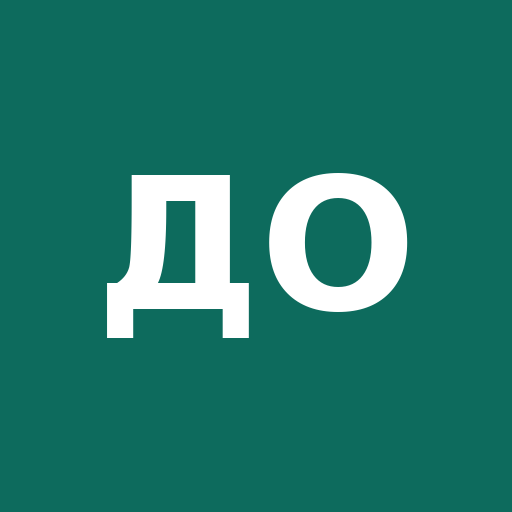
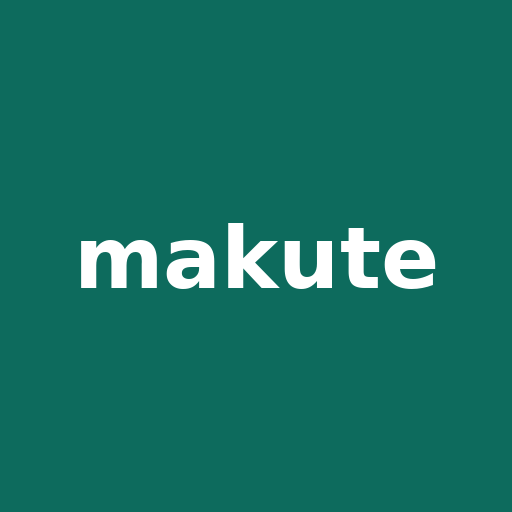
Add files via upload

Changed region(s): [[0.1562, 0.3125, 0.875, 0.6875]]

diff --git a/index.html b/index.html
@@ -9,7 +9,7 @@
 <link rel="icon" href="icon-192.png">
 <link rel="apple-touch-icon" href="icon-192.png">
 <meta name="apple-mobile-web-app-capable" content="yes">
-<meta name="apple-mobile-web-app-title" content="Документооборот">
+<meta name="apple-mobile-web-app-title" content="makute">
 <link rel="preconnect" href="https://fonts.googleapis.com">
 <link rel="preconnect" href="https://fonts.gstatic.com" crossorigin>
 <link href="https://fonts.googleapis.com/css2?family=Onest:wght@400;500;600;700&display=swap" rel="stylesheet">
@@ -75,8 +75,8 @@ button{cursor:pointer}
 
 .app{flex:1;display:flex;min-height:0}
 .side{width:200px;flex:none;background:var(--side);color:var(--side-ink);display:flex;flex-direction:column;padding:16px 10px;gap:4px}
-.brand{display:flex;align-items:center;gap:10px;padding:0 6px 18px}
-.logo{width:36px;height:36px;border-radius:10px;background:var(--acc);color:var(--acc-ink);display:grid;place-items:center;font-weight:700;font-size:14px}
+.brand{display:flex;flex-direction:column;align-items:flex-start;gap:8px;padding:0 6px 18px}.brand .logo{flex:none}
+.logo{min-width:36px;width:auto;padding:0 10px;height:36px;border-radius:10px;letter-spacing:.02em;background:var(--acc);color:var(--acc-ink);display:grid;place-items:center;font-weight:700;font-size:14px}
 .brand small{display:block;font-size:11.5px;color:#8E9A97}
 .brand span{color:#fff;font-weight:600;font-size:14px}
 .nav{display:flex;align-items:center;gap:10px;padding:10px;border-radius:10px;border:0;background:none;color:var(--side-ink);text-align:left;font-size:14px;width:100%}
@@ -229,7 +229,7 @@ tr.click:hover td{background:var(--panel2)}
 .authbox{width:100%;max-width:380px;background:var(--panel);border:1px solid var(--line2);border-radius:20px;padding:28px 24px;display:flex;flex-direction:column;gap:12px}
 .authbox h1{margin:4px 0 0;font-size:22px}
 .authbox p{margin:0 0 6px}
-.logo.big{width:56px;height:56px;border-radius:16px;font-size:18px}
+.logo.big{height:56px;padding:0 18px;border-radius:16px;font-size:20px;align-self:flex-start}
 .flbl{font-size:13px;font-weight:600;color:var(--ink2)}
 .pwbox{display:flex;flex-direction:column;gap:10px;background:var(--panel2);border:1px solid var(--line2);border-radius:12px;padding:14px}
 .pwbox div{display:flex;justify-content:space-between;gap:12px;font-size:15px}

diff --git a/app.js b/app.js
@@ -153,7 +153,7 @@ async function transition(r,a,comment,file){
 function renderLogin(){
   const L=st.login;
   return `<main class="auth"><form class="authbox" data-form="login">
-    <div class="logo big">ДО</div><h1>Документооборот</h1><p class="muted">Тестовая версия · логин и пароль выдаёт руководитель</p>
+    <div class="logo big">makute</div><h1>Документооборот</h1><p class="muted">Тестовая версия · логин и пароль выдаёт руководитель</p>
     <div class="fld"><label for="lu">Логин</label><input id="lu" type="text" autocomplete="username" autocapitalize="off" value="${esc(L.u||"")}" required></div>
     <div class="fld"><label for="lp">Пароль</label><input id="lp" type="password" autocomplete="current-password" required></div>
     ${L.err?`<div class="err">${esc(L.err)}</div>`:""}
@@ -184,7 +184,7 @@ function render(){
   const turnCount=st.reqs.filter(myTurn).length;
   const canNotify="Notification" in window&&Notification.permission==="default";
   const top=`<div class="demo"><b>Документооборот · тест</b><span class="sp"></span>${canNotify?`<button data-act="notif">${ic("bell")} Включить уведомления</button>`:""}<span class="who">${esc(u.name)} · ${ROLE[u.role].toLowerCase()}</span><button data-act="logout" aria-label="Выйти">${ic("out")}</button></div>`;
-  const side=`<nav class="side" aria-label="Разделы"><div class="brand"><div class="logo">ДО</div><div><span>Документооборот</span></div></div>
+  const side=`<nav class="side" aria-label="Разделы"><div class="brand"><div class="logo">makute</div><div><span>Документооборот</span></div></div>
     ${views.map(v=>`<button class="nav ${st.view===v[0]?"on":""}" data-act="view" data-v="${v[0]}">${ic(v[2])}<span>${v[1]}</span>${v[0]==="list"&&turnCount?`<span class="cnt">${turnCount}</span>`:""}</button>`).join("")}
     <div class="me"><b>${esc(u.name)}</b>${ROLE[u.role]}</div></nav>`;
   const main=st.view==="dash"?renderDash():st.view==="users"?renderUsers():renderList()+renderDetail();

diff --git a/sw.js b/sw.js
@@ -1,6 +1,6 @@
 // Service worker: нужен для установки на главный экран и показа уведомлений.
 // Кэшируем только оболочку приложения; данные всегда берутся с сервера.
-const CACHE = "docflow-v2";
+const CACHE = "docflow-v3";
 const SHELL = ["./", "index.html", "app.js", "config.js", "manifest.json", "icon-192.png", "icon-512.png"];
 self.addEventListener("install", (e) => { e.waitUntil(caches.open(CACHE).then((c) => c.addAll(SHELL))); self.skipWaiting(); });
 self.addEventListener("activate", (e) => {
